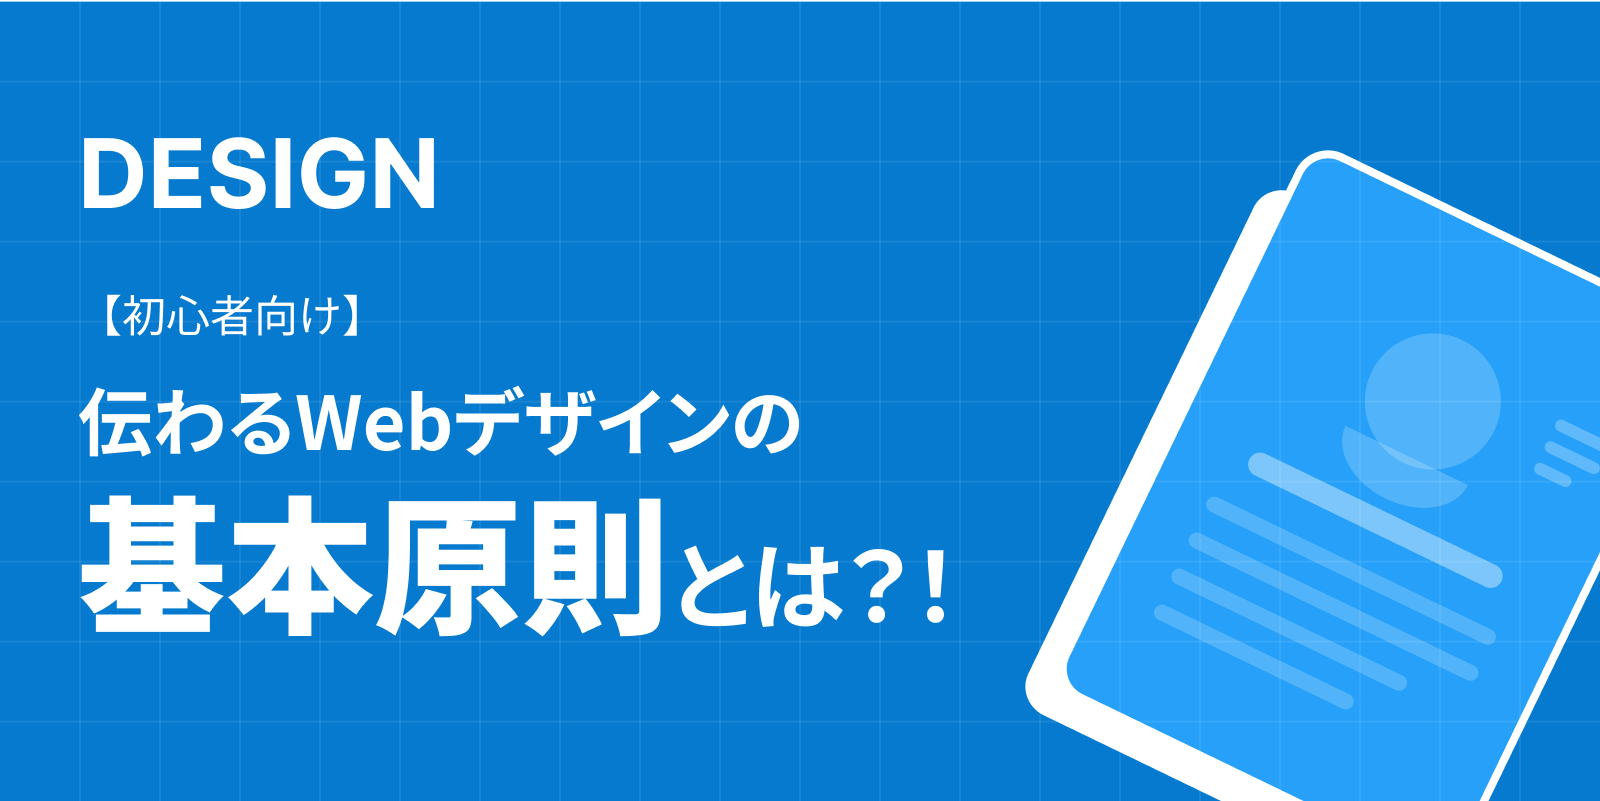
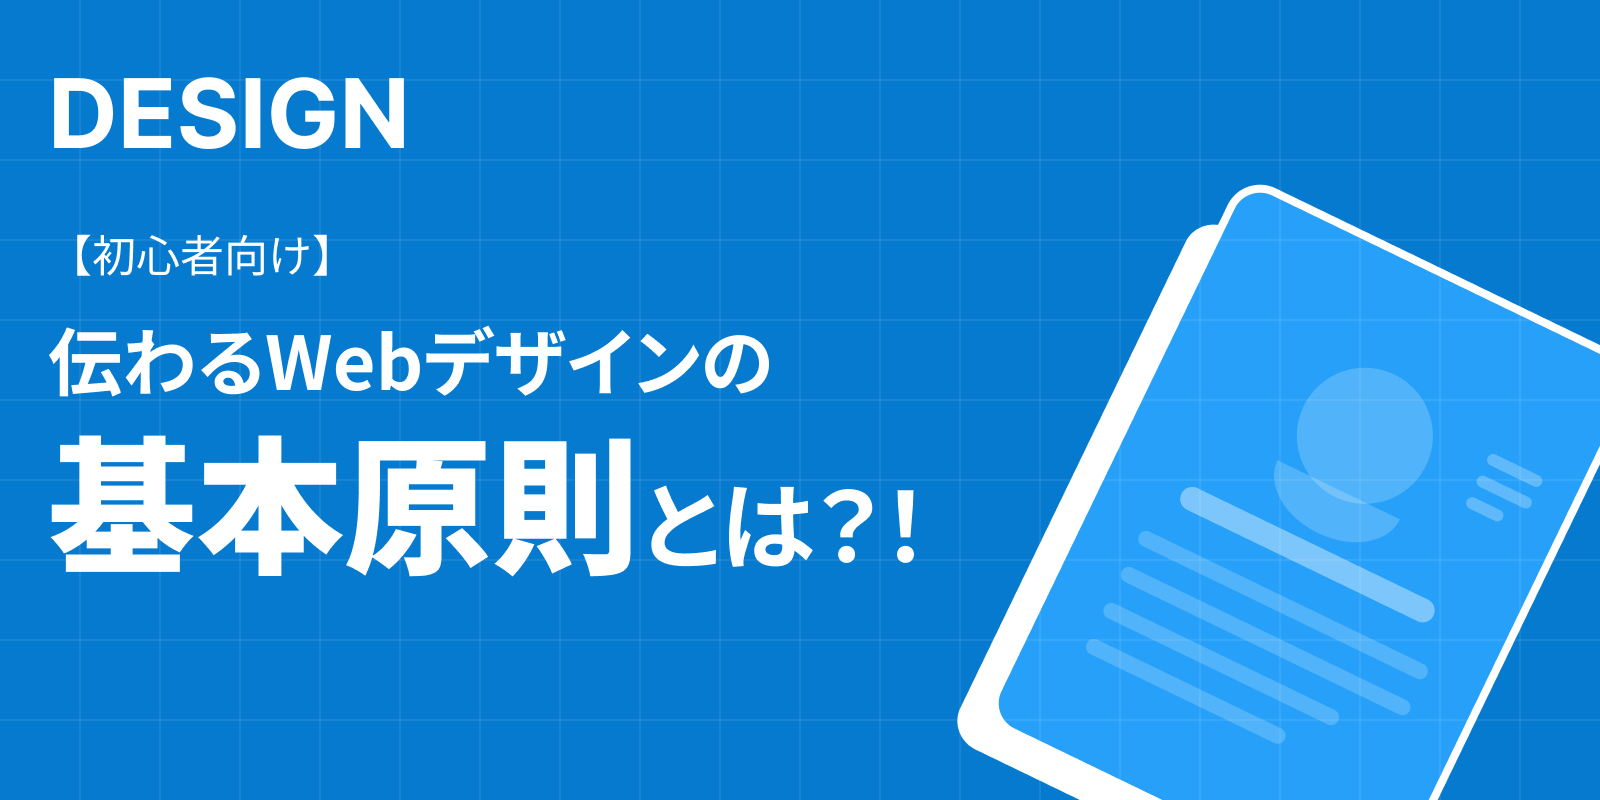
article-4 add

Changed region(s): [[0.5938, 0.1875, 1.0, 1.0], [0.0312, 0.375, 0.5938, 0.8125], [0.0312, 0.0938, 0.2812, 0.3438]]

diff --git a/components/Article/ArticleList.vue b/components/Article/ArticleList.vue
@@ -7,18 +7,22 @@
         気になるテーマがあれば、ぜひ記事もあわせてご覧ください。
       </p>
     </div>
-    <ul>
-      <li v-for="post in posts" :key="post.slug" class="article-item">
-        <nuxt-link :to="`/articles/${post.slug}`" class="article-link">
-          <img :src="post.thumbnail" :alt="post.title" class="article-thumb" />
-          <div class="article-info">
-            <h3>{{ post.title }}</h3>
-            <p class="article-date">{{ post.date }}</p>
-            <p class="read-more">記事を読む</p>
-          </div>
-        </nuxt-link>
-      </li>
-    </ul>
+    <div :class="{ 'slider': isSliderEnabled }">
+      <div class="article-wrap" :class="{ 'slider-track': isSliderEnabled }" :style="isSliderEnabled ? { transform: `translateX(-${currentSlide * 324}px)` } : {}">
+        <div v-for="post in posts" :key="post.slug" class="article-item">
+          <nuxt-link :to="`/articles/${post.slug}`" class="article-link">
+            <img :src="post.thumbnail" :alt="post.title" class="article-thumb" />
+            <div class="article-info">
+              <h3>{{ post.title }}</h3>
+              <p class="article-date">{{ post.date }}</p>
+              <p class="read-more">記事を読む</p>
+            </div>
+          </nuxt-link>
+        </div>
+      </div>
+    </div>
+    <div v-if="isSliderEnabled" class="slider__btn-left"><img :src="require(`~/assets/img/icon/left-arrow.svg`)" @click="prevSlide"></div>
+    <div v-if="isSliderEnabled" class="slider__btn-right"><img :src="require(`~/assets/img/icon/right-arrow.svg`)" @click="nextSlide"></div>
   </div>
 </template>
 
@@ -28,6 +32,31 @@ export default {
     posts: {
       type: Array,
       required: true
+    },
+    isSliderEnabled: {
+      type: Boolean,
+      default: true
+    }
+  },
+  data() {
+    return {
+      currentSlide: 0
+    };
+  },
+  methods: {
+    nextSlide() {
+      if (this.currentSlide < this.posts.length - 1) {
+        this.currentSlide++;
+      } else {
+        this.currentSlide = 0;
+      }
+    },
+    prevSlide() {
+      if (this.currentSlide > 0) {
+        this.currentSlide--;
+      } else {
+        this.currentSlide = this.posts.length - 1;
+      }
     }
   }
 }
@@ -44,19 +73,60 @@ export default {
   margin: 0 auto;
   width: 100%;
 
-  ul {
-    display: flex;
-    flex-direction: row;
-    gap: 24px;
-    flex-flow: wrap;
-  }
-
   @include sp {
     padding: 40px 16px 0;
   }
 }
 
+.slider {
+  overflow: hidden;
+  width: 100%;
+}
+
+.slider-track {
+  display: flex;
+  gap: 24px;
+  transition: transform 0.5s ease;
+  margin-bottom: 56px;
+}
+
+.slider__btn-left {
+  cursor: pointer;
+  position: absolute;
+  left: -61px;
+  bottom: 185px;
+  opacity: 0.7;
+}
+
+.slider__btn-right {
+  cursor: pointer;
+  position: absolute;
+  right: -61px;
+  bottom: 185px;
+  opacity: 0.7;
+}
+
+.indicators {
+  display: flex;
+  justify-content: center;
+  margin-bottom: 10px;
+}
+
+.indicators span {
+  display: inline-block;
+  width: 30px;
+  height: 3px;
+  background-color: #ccc;
+  transition: background-color 0.3s, width 0.3s;
+}
+
+.indicators span.active {
+  background-color: #26A0F8;
+  width: 34px;
+}
+
 .article-item {
+  flex: 0 0 auto;
   display: flex;
   flex-direction: column;
   align-items: center;
@@ -65,7 +135,7 @@ export default {
   overflow: hidden;
   box-shadow: 0 4px 8px rgba(0, 0, 0, 0.1);
   transition: transform 0.3s;
-  width: calc(34% - 24px);
+  width: 300px;
   height: auto;
 
   @include sp {

diff --git a/pages/articles/index.vue b/pages/articles/index.vue
@@ -6,7 +6,9 @@
       <div class="bgLight__pos bgLight__two"></div>
       <div class="bgLight__pos bgLight__three"></div>
     </div>
-    <ArticleList :posts="articles" />
+    <div class="article__wrap">
+      <ArticleList :posts="articles" :isSliderEnabled="false" />
+    </div>
   </main>
 </template>
 
@@ -35,4 +37,15 @@ export default {
 <style lang="scss" scoped>
 @import '~/assets/scss/foundation/_bglight.scss';
 @import '~/assets/scss/foundation/_button.scss';
+
+::v-deep(.article-wrap) {
+  display: flex;
+  gap: 24px;
+  flex-wrap: wrap;
+  width: 1100px;
+}
+
+::v-deep(.article-item) {
+  width: 350px;
+}
 </style>

diff --git a/pages/articles/_slug.vue b/pages/articles/_slug.vue
@@ -49,7 +49,7 @@ export default {
 .article-container {
   color: #ededed;
   max-width: 800px;
-  margin: 10rem auto;
+  margin: 72px auto;
   font-family: 'Noto Sans JP', sans-serif;
   line-height: 1.8;
 

diff --git a/content/article-4.md b/content/article-4.md
@@ -1,0 +1,69 @@
+---
+title: "デザイナーが実装を含めて考えていること7選"
+date: "2025/6/10"
+tags: ["UIデザイン", "フロントエンド連携", "Figma", "実装配慮"]
+thumbnail: "/img/article/dev/dev1.png"
+---
+
+![デザイナーが実装を含めて考えていること7選？](/img/article/dev/dev1.png)
+
+## はじめに
+
+「実装を意識したデザインを」とはよく言うけれど、  
+実際にエンジニアと仕事をしてみると「伝わらない」「意図と違う」「ズレる」など、すれ違いは多いもの。
+この記事では、**HTML/CSSやVueでの実装も行うUIデザイナーが、フロントエンド実装者と円滑に連携するために気をつけているポイント**を7つ紹介します。
+
+## 1. コンポーネント単位で考えてデザインする
+
+- Header, Button, Card などの**再利用前提**でパーツを設計
+- 状態（Hover/Disabled/Active）も一緒に揃える
+- Figmaでは `Variants` で表現しておく。
+
+## 2. 命名規則はCSSでそのまま使えるように意識する
+
+- `btn-primary`, `form-control`, `card--highlight` のようにBEMやutility設計も見据えて命名
+- CSSクラス名に変換しやすい命名は実装者が喜ぶ！
+
+## 3. スペーシングはルール化してブレを減らす
+
+- `8の倍数`で統一（8px, 16px, 24px...）
+- FigmaのSpacing TokenやGrid使用で可視化
+- 実装時の`padding`, `gap`を考えた設計ができる
+
+## 4. フォント・カラー・角丸などを変数ベースで統一
+
+- Design Token的に `color.primary`, `font.body`, `radius.base` を設計
+- Figma Tokens + SCSS変数で実装までリンク可能
+
+
+## 5. レスポンシブ対応を想定したレイアウトにする
+
+- Auto Layoutでスマホ〜PCの可変を想定しておく
+- 「画面幅が狭くなったらどうなるか？」をデザイナー側から先出ししておく
+- EmptyStateなども考えておく
+
+
+## 6. 実装者に渡す前に「意図」を明文化する
+
+- コンポーネント単位で **実装ポイントを記述**（Figma注釈）
+- 例：「ここの幅は固定です」「テキスト量で高さ可変です」など
+- コミュニケーションの齟齬を最小限に
+
+## 7. 修正しやすいファイル構成・管理を意識する
+
+- コンポーネント単位でFigmaファイルを整理
+- 「一部だけ修正」がしやすい構成
+- 共有リンクや命名もシンプルに
+- スタイルガイド、デザインシステムの作成
+- デザインが属人化しないように注意する
+
+![デザイナーが実装を含めて考えていること7選？](/img/article/dev/dev2.png)
+
+## まとめ
+
+フロント実装をする人にとって「実装しやすいデザイン」は、見た目だけでなく「構造や再現性」に配慮されたものと考えます。
+- パーツ単位で考える
+- 命名や余白はルール化
+- 実装の流れや制約を知っておく
+
+デザインが、プロダクト全体の質を支える存在になるように。

diff --git a/content/article-3.md b/content/article-3.md
@@ -1,6 +1,6 @@
 ---
 title: "UXの5段階モデルとは？ユーザー体験設計の基本を解説"
-date: "2025-06-09"
+date: "2025/6/9"
 tags: ["UX", "UI/UX設計", "UXデザイン", "ユーザー体験"]
 thumbnail: "/img/article/ux5model/ux-main.png"
 ---

diff --git a/content/article-1.md b/content/article-1.md
@@ -1,6 +1,6 @@
 ---
 title: "【初心者向け】伝わるWebデザインの基本原則とは？"
-date: "2025年6月5日"
+date: "2025/6/5"
 tags: ["Webデザイン", "UI/UX", "デザイン原則"]
 thumbnail: "/img/article/design/design01.png"
 ---

diff --git a/content/article-2.md b/content/article-2.md
@@ -1,6 +1,6 @@
 ---
 title: "OOUIとは？アプリを直感的にする設計法"
-date: "2025年6月6日"
+date: "2025/6/6"
 tags: ["UI設計", "UX", "OOUI", "業務改善"]
 thumbnail: "/img/article/ooui/ooui-thumb.png"
 ---
